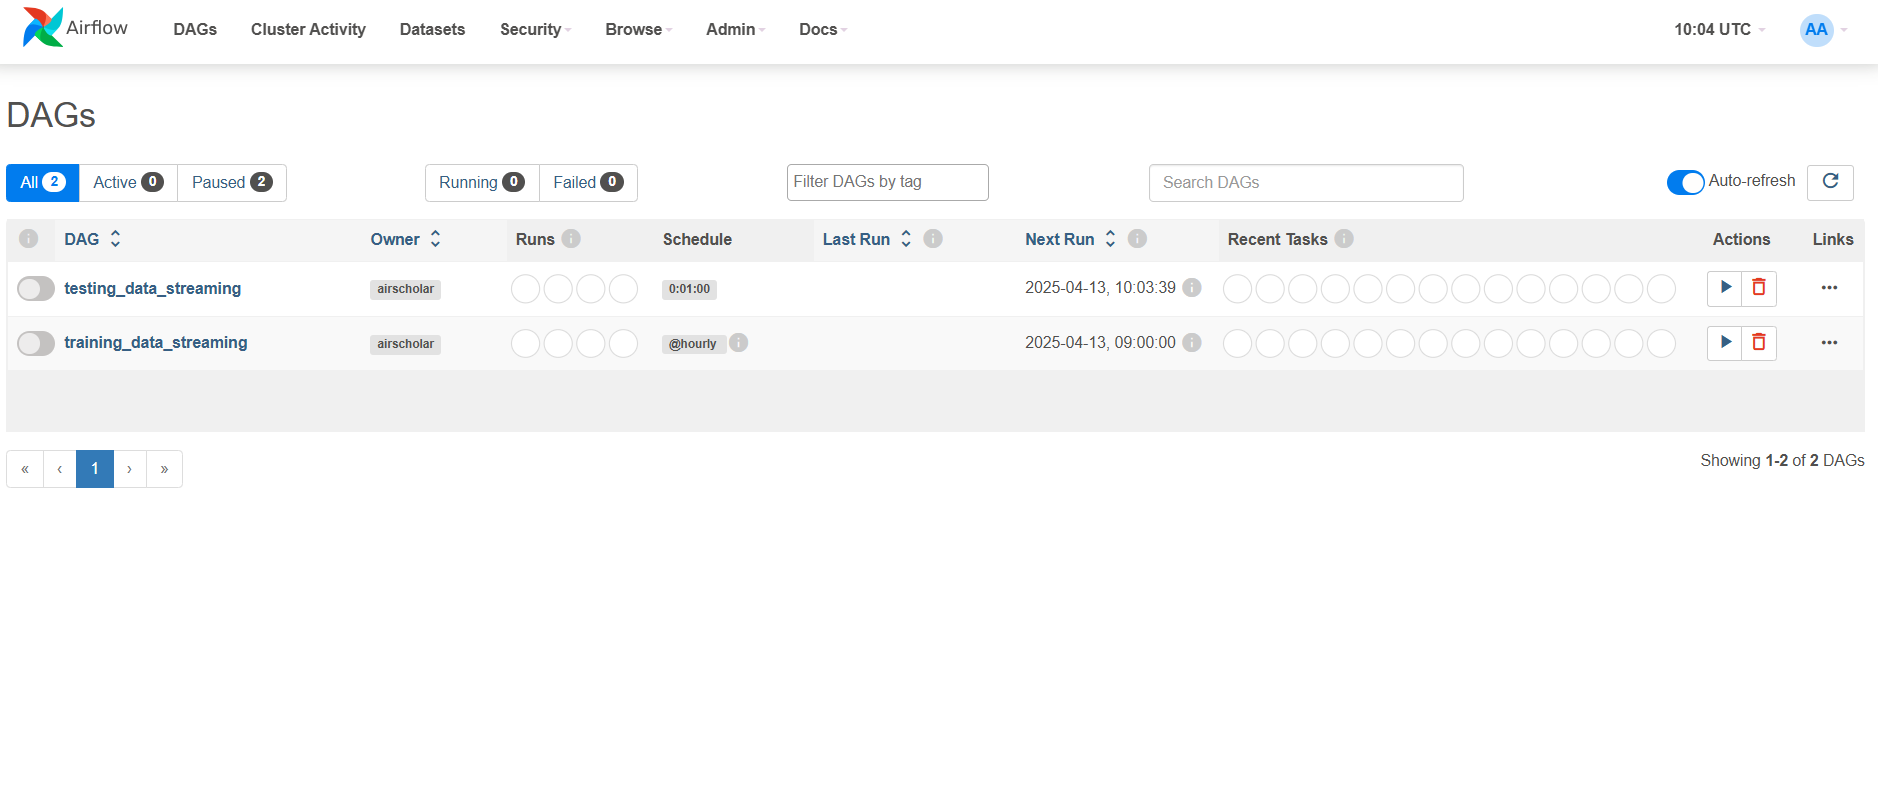
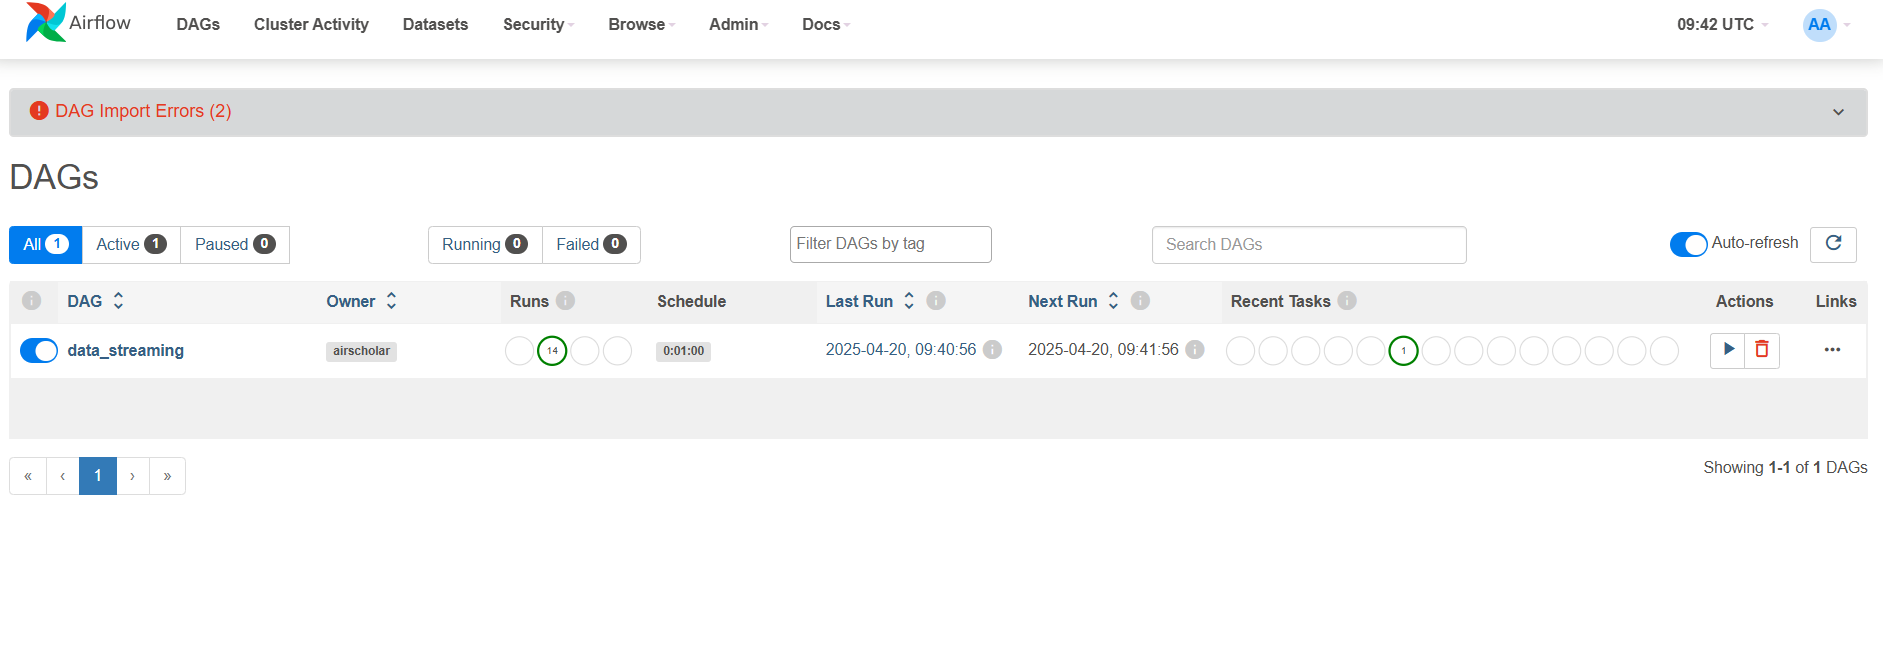
reduce_pipeline - doc: update README.md

diff --git a/README.md b/README.md
@@ -1,21 +1,23 @@
-# Realtime Data Streaming Pipeline
+# Data Streaming ETL & MLOps
 
-Hệ thống xử lý dữ liệu thời gian thực sử dụng Apache Airflow, Kafka, Spark, PostgreSQL và MinIO. 
-Dự án này giả lập quá trình xử lý dữ liệu theo thời gian thực từ nhiều nguồn dữ liệu.
+Dự án hướng tới giả lập quá trình xử lý dữ liệu (ETL) theo thời gian thực từ nhiều nguồn dữ liệu, từ đó kết hợp với nền tảng MLOps cho phép đưa ra đề xuất, dự đoán theo thời gian thực.
 
 ## Yêu cầu hệ thống
 - Docker và Docker Compose
-- Python 3.9+
-- Kết nối internet ổn định
+- Python 3.9+, minio, pyarrow, pandas
 
 ## Kiến trúc hệ thống
-Hệ thống bao gồm các thành phần chính:
-- **MinIO**: Lưu trữ object storage cho dữ liệu nguồn và datalake
+Data pipeline:
+- **MinIO**: Cơ sở dữ liệu cho dữ liệu nguồn và datalake
 - **Kafka & Confluent Platform**: Hệ thống message broker
 - **Apache Airflow**: Điều phối luồng xử lý dữ liệu
 - **Apache Spark**: Xử lý dữ liệu phân tán
 - **PostgreSQL**: Lưu trữ dữ liệu quan hệ và metadata
 - **Redis**: Lưu trữ key-value cho dữ liệu thời gian thực
+
+Training pipeline:
+- **MLFlow**:
+- **Ray**:
 
 ## Hướng dẫn triển khai
 
@@ -35,27 +37,25 @@ Hệ thống bao gồm các thành phần chính:
    - **Password**: `minioadmin`
 
 4. Cấu hình MinIO:
-   - Hai bucket sẽ được tạo tự động: `bronze` (datalake) và `storage` (data source)
+   - Hai bucket sẽ được tạo tự động: `bronze` (datalake) và `datasource` (data source)
+   - Trong `bronze` sẽ tồn tại: `_checkpoints\data_streaming` để phục vụ cho pha Spark streaming.
    - Tạo Access Keys từ giao diện quản trị MinIO (Administrator → Access Keys → Create new key)
-   - Cập nhật thông tin access key và secret key vào file `/datalake/minio_config.py`
+   - Cập nhật thông tin access key và secret key vào file `/data_source/minio_config.py`
 
    ![MinIO Buckets](images/minio_buckets.png)
    ![MinIO Keys](images/minio_keys.png)
 
 ### Bước 2: Khởi tạo dữ liệu nguồn
-Tạo dữ liệu mẫu cho việc giả lập nguồn dữ liệu:
+Chuyển dữ liệu từ .csv vào `datasource` để tạo nguồn dữ liệu, phục vụ cho data streaming:
 
 ```bash
-python datalake/load_to_storage.py
+python data_source/load_to_source.py
 ```
 
 Kết quả:
-- Bucket `storage` sẽ chứa hai thư mục:
-  - `training_data`: Chứa file parquet (tổng hợp dữ liệu từ CSV theo giờ)
-  - `testing_data`: Chứa file JSON (mỗi dòng trong CSV tương ứng với một file JSON)
+- Bucket `datasource` sẽ chứa các đối tượng JSON được chuyển đổi từ các hàng trong `.csv` gốc ban đầu.
 
-![Training Data Source](images/minio_training_source.png)
-![Testing Data Source](images/minio_testing_source.png)
+![Data Source](images/minio_datasource.png)
 
 ### Bước 3: Triển khai hệ thống xử lý dữ liệu
 1. Khởi động các dịch vụ chính (Kafka, Airflow, Spark, PostgreSQL):
@@ -81,38 +81,23 @@ Kết quả:
 
 ### Bước 4: Cấu hình Lambda ở MinIO
 
-1. Cấu hình Event cho `training_data_streaming`:
-   - Tại Administrator: Events → Add Event Destination → Kafka, và cấu hình như ở ảnh dưới (Identifier: `training_data_streaming`, Brokers: `broker:29092`, Topic: `training_data_streaming`)
+1. Cấu hình Event tại MinIO:
+   - Tại MinIO/Administrator: Events → Add Event Destination → Kafka, và cấu hình như ở ảnh dưới (Identifier: `data_streaming`, Brokers: `broker:29092`, Topic: `data_streaming`)
 
-   ![Training Data Streaming Event](images/training_data_streaming_event.png)
+   ![Data Streaming Event](images/data_streaming_event.png)
 
-2. Cấu hình Event cho `testing_data_streaming`:
-   - Tại Administrator: Events → Add Event Destination → Kafka, và cấu hình như ở ảnh dưới (Identifier: `testing_data_streaming`, Brokers: `broker:29092`, Topic: `testing_data_streaming`)
+2. Kết nối Event vừa tạo trên cho `bronze` bucket:
+   - Administrator: Buckets → bronze → Events → Subscribe to Event. Và thực hiện như ở ảnh dưới:
 
-   ![Testing Data Streaming Event](images/testing_data_streaming.event.png)
+   ![Subscribe Event](images/subscribe_event.png)
 
-3. Kết nối 2 Events vừa tạo trên cho `bronze` bucket:
-   - Administrator: Buckets → bronze → Events → Subscribe to Event. Thực hiện Subscribe 2 lần tương ứng với 2 luồng (training/testing) sẽ đi vào các Topic khác nhau của Kafka.
-
-   ![First Subscribe Event](images/first_subscribe_event.png)
-   ![Second Subscribe Event](images/second_subscribe_event.png)
-
-4. Tại Apache Airflow Web, thực hiện Trigger cả 2 Dags và vào lại Kafka Controller Web, chọn xem Topics thì sẽ thấy 2 Topics vừa tạo ở phần Cấu hình Event xuất hiện. 2 Topics nhận các Messages khác nhau đến từ 2 luồng.
+3. Tại Apache Airflow Web (`http://localhost:8080/`), thực hiện Trigger `data_streaming` và xem kết quả. Dữ liệu sẽ được lấy từ `datasource` chuyển vào `bronze/data` và tín hiệu sẽ được chuyển vào topic `data_streaming` ở Kafka (`http://localhost:9021/`)
 
    ![Airflow Trigger](images/airflow_trigger.png)
-   ![Kafka Training Topic](images/kafka_training_topic.png)
-   ![Kafka Testing Topic](images/kafka_testing_topic.png)
+   ![Kafka Topic](images/kafka_streaming_data_topic.png)
 
-### Bước 5: Khởi động Spark
-
-#### Bước 5.1: Khởi động Spark đối với `testing_data_streaming`, xử lý và chuyển dữ liệu vào Redis
-1. Cài đặt những thứ cần thiết:
-   ```bash
-   docker exec -it spark-master pip install spark_app/spark_requirement.txt
-   conda install -c anaconda setuptools
-
-   ```
-2. Truy cập vào Spark Master Terminal:
+### Bước 5: Khởi động Spark, thực hiện chuyển đổi, xử lý và truyền dữ liệu vào Redis
+1. Truy cập vào Spark Master Terminal:
    ```bash
    docker exec -it spark-master bash
    ```
@@ -122,11 +107,7 @@ Kết quả:
    /opt/bitnami/spark/bin/spark-submit \
        --master spark://spark-master:7077 \
        --packages org.apache.spark:spark-sql-kafka-0-10_2.12:3.4.1,org.apache.hadoop:hadoop-aws:3.3.4,com.amazonaws:aws-java-sdk-bundle:1.12.262 \
-       /opt/spark_app/testing_data_streaming.py
-   ```
-
-   ```bash
-   /opt/bitnami/spark$ /opt/bitnami/spark/bin/spark-submit --master spark://spark-master:7077 --packages org.apache.spark:spark-sql-kafka-0-10_2.12:3.4.1,org.apache.hadoop:hadoop-aws:3.3.4,com.amazonaws:aws-java-sdk-bundle:1.12.262 /opt/spark_app/testing_data_streaming.py
+       /opt/spark_app/process_data_streaming.py
    ```
 3. Sau khi Spark đã cài xong các file cấu hình liên quan và thực hiện xử lý, để kiểm tra xem data có đi vào Redis như kỳ vọng hay không:
    ```bash
@@ -134,23 +115,6 @@ Kết quả:
    HGETALL "session:f2c45be2-c4cf-4caf-9c40-eaf0634b80dc:product:1307353"
    ```
    (Dữ liệu lưu vào Redis theo định dạng key-value, truy vấn theo Key)
-
-#### Bước 5.2: Khởi động Spark để xử lý dữ liệu training
-   1. Chạy dữ liệu vào PostGre:
-   ```bash
-   docker exec -it spark-master spark-submit  --packages org.apache.spark:spark-sql-kafka-0-10_2.12:3.3.0,org.postgresql:postgresql:42.7.4  /opt/spark_app/training_data_stream.py
-   ```
-   
-   2. Cách vào postgres xem dữ liệu: 
-
-   ```bash
-      docker exec -it postgres psql -U airflow -d airflow
-   ```
-   3. Sau đó nhập các lệnh sql để truy vấn bảng processed_data:
-   ```bash
-   SELECT * FROM processed_data LIMIT 10;
-   SELECT COUNT(*) FROM processed_data;
-   ```
 # Training Pipeline
    1. Chạy docker
    ```bash
